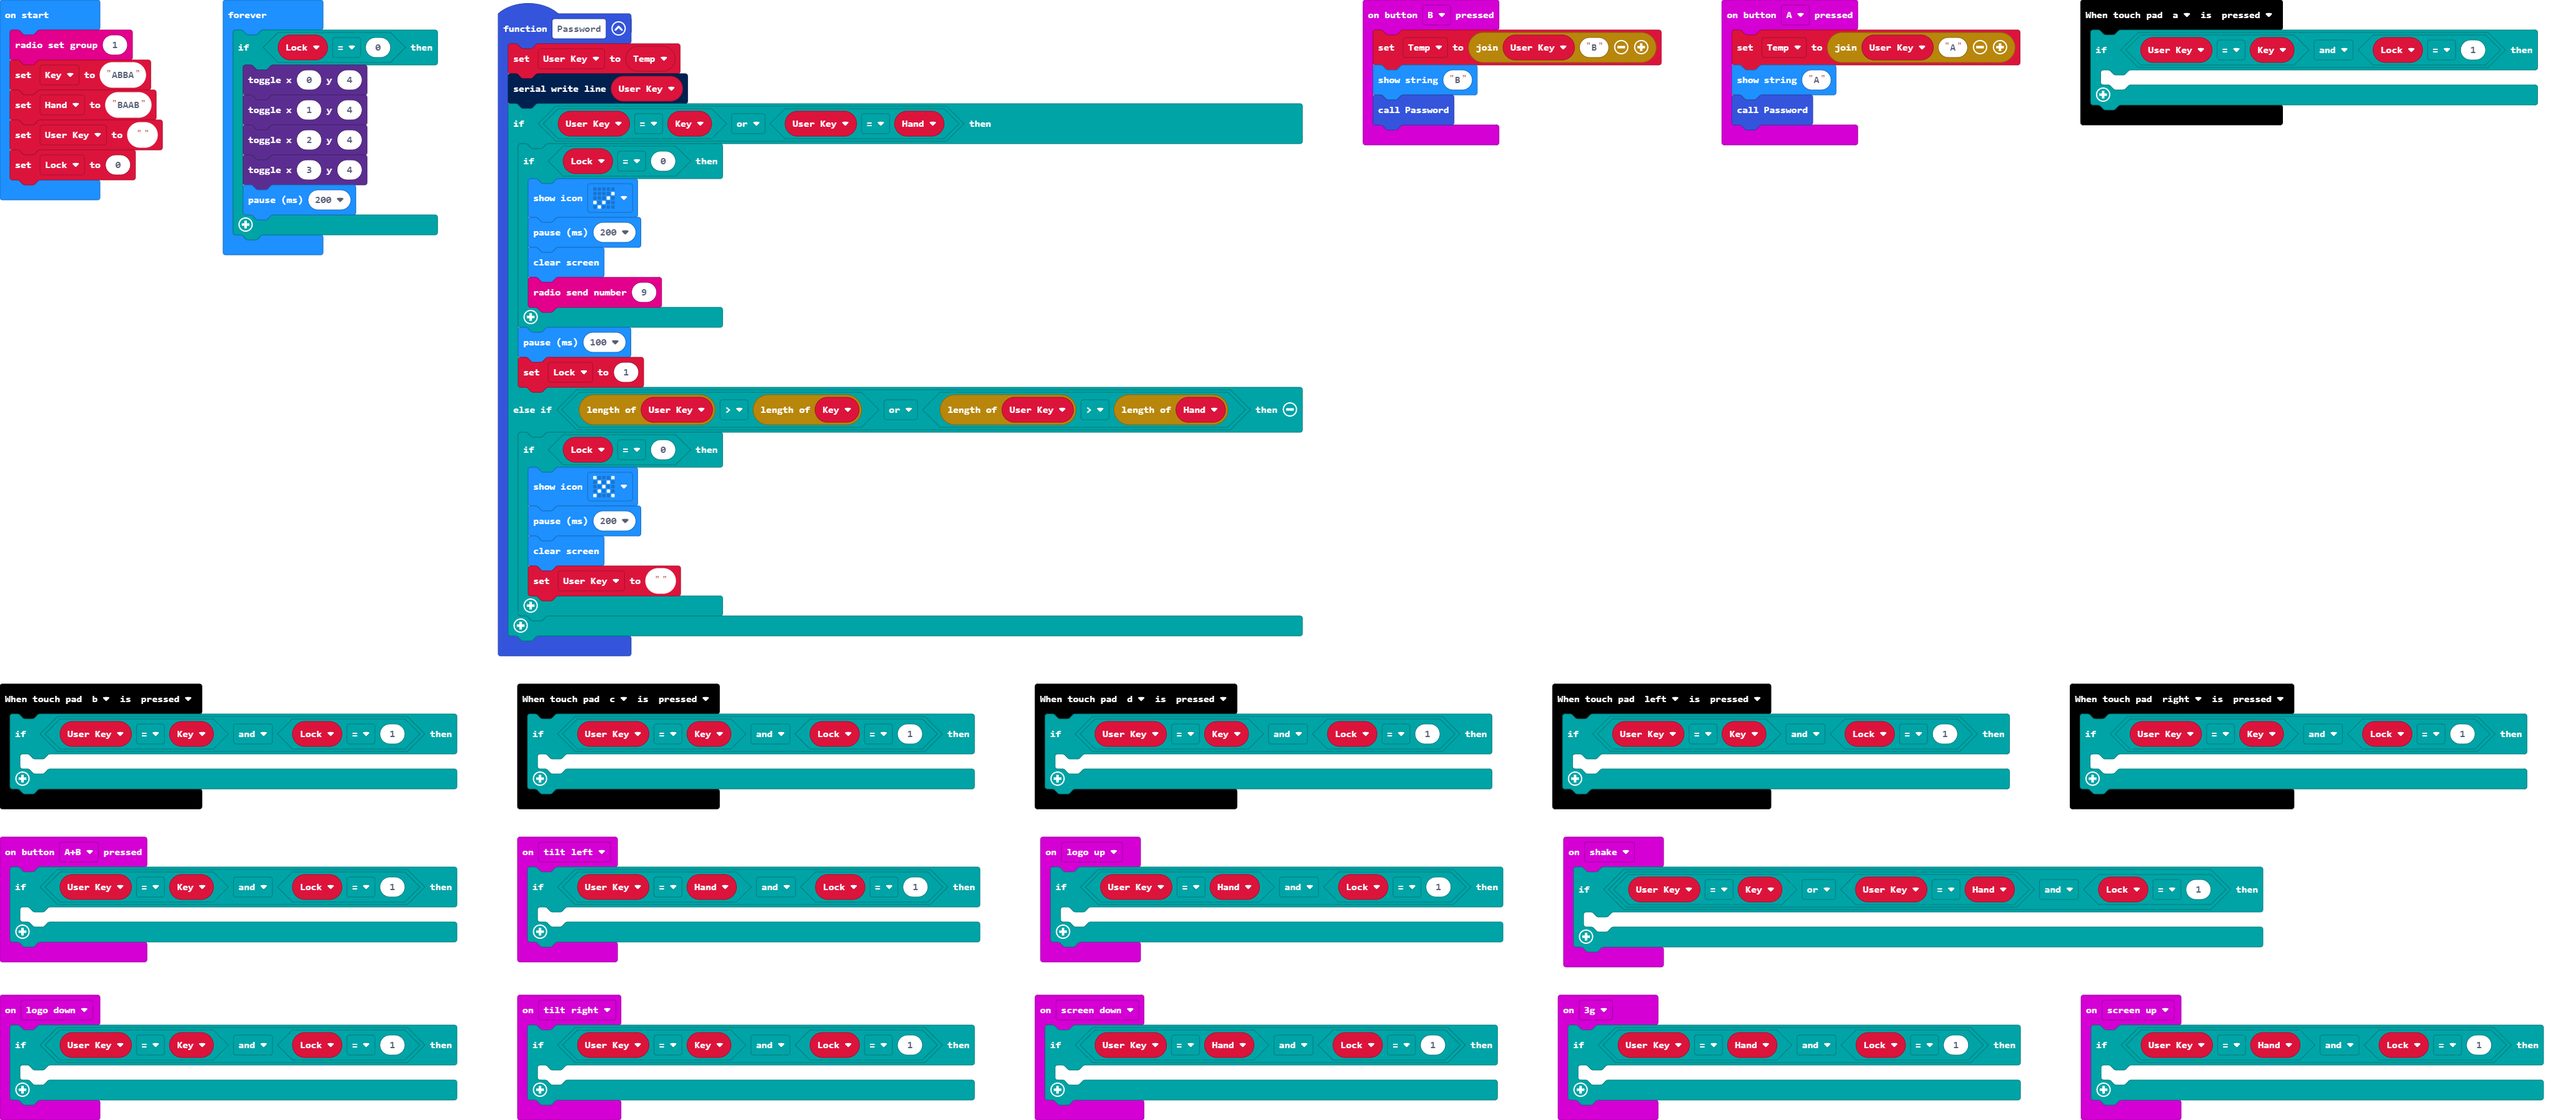
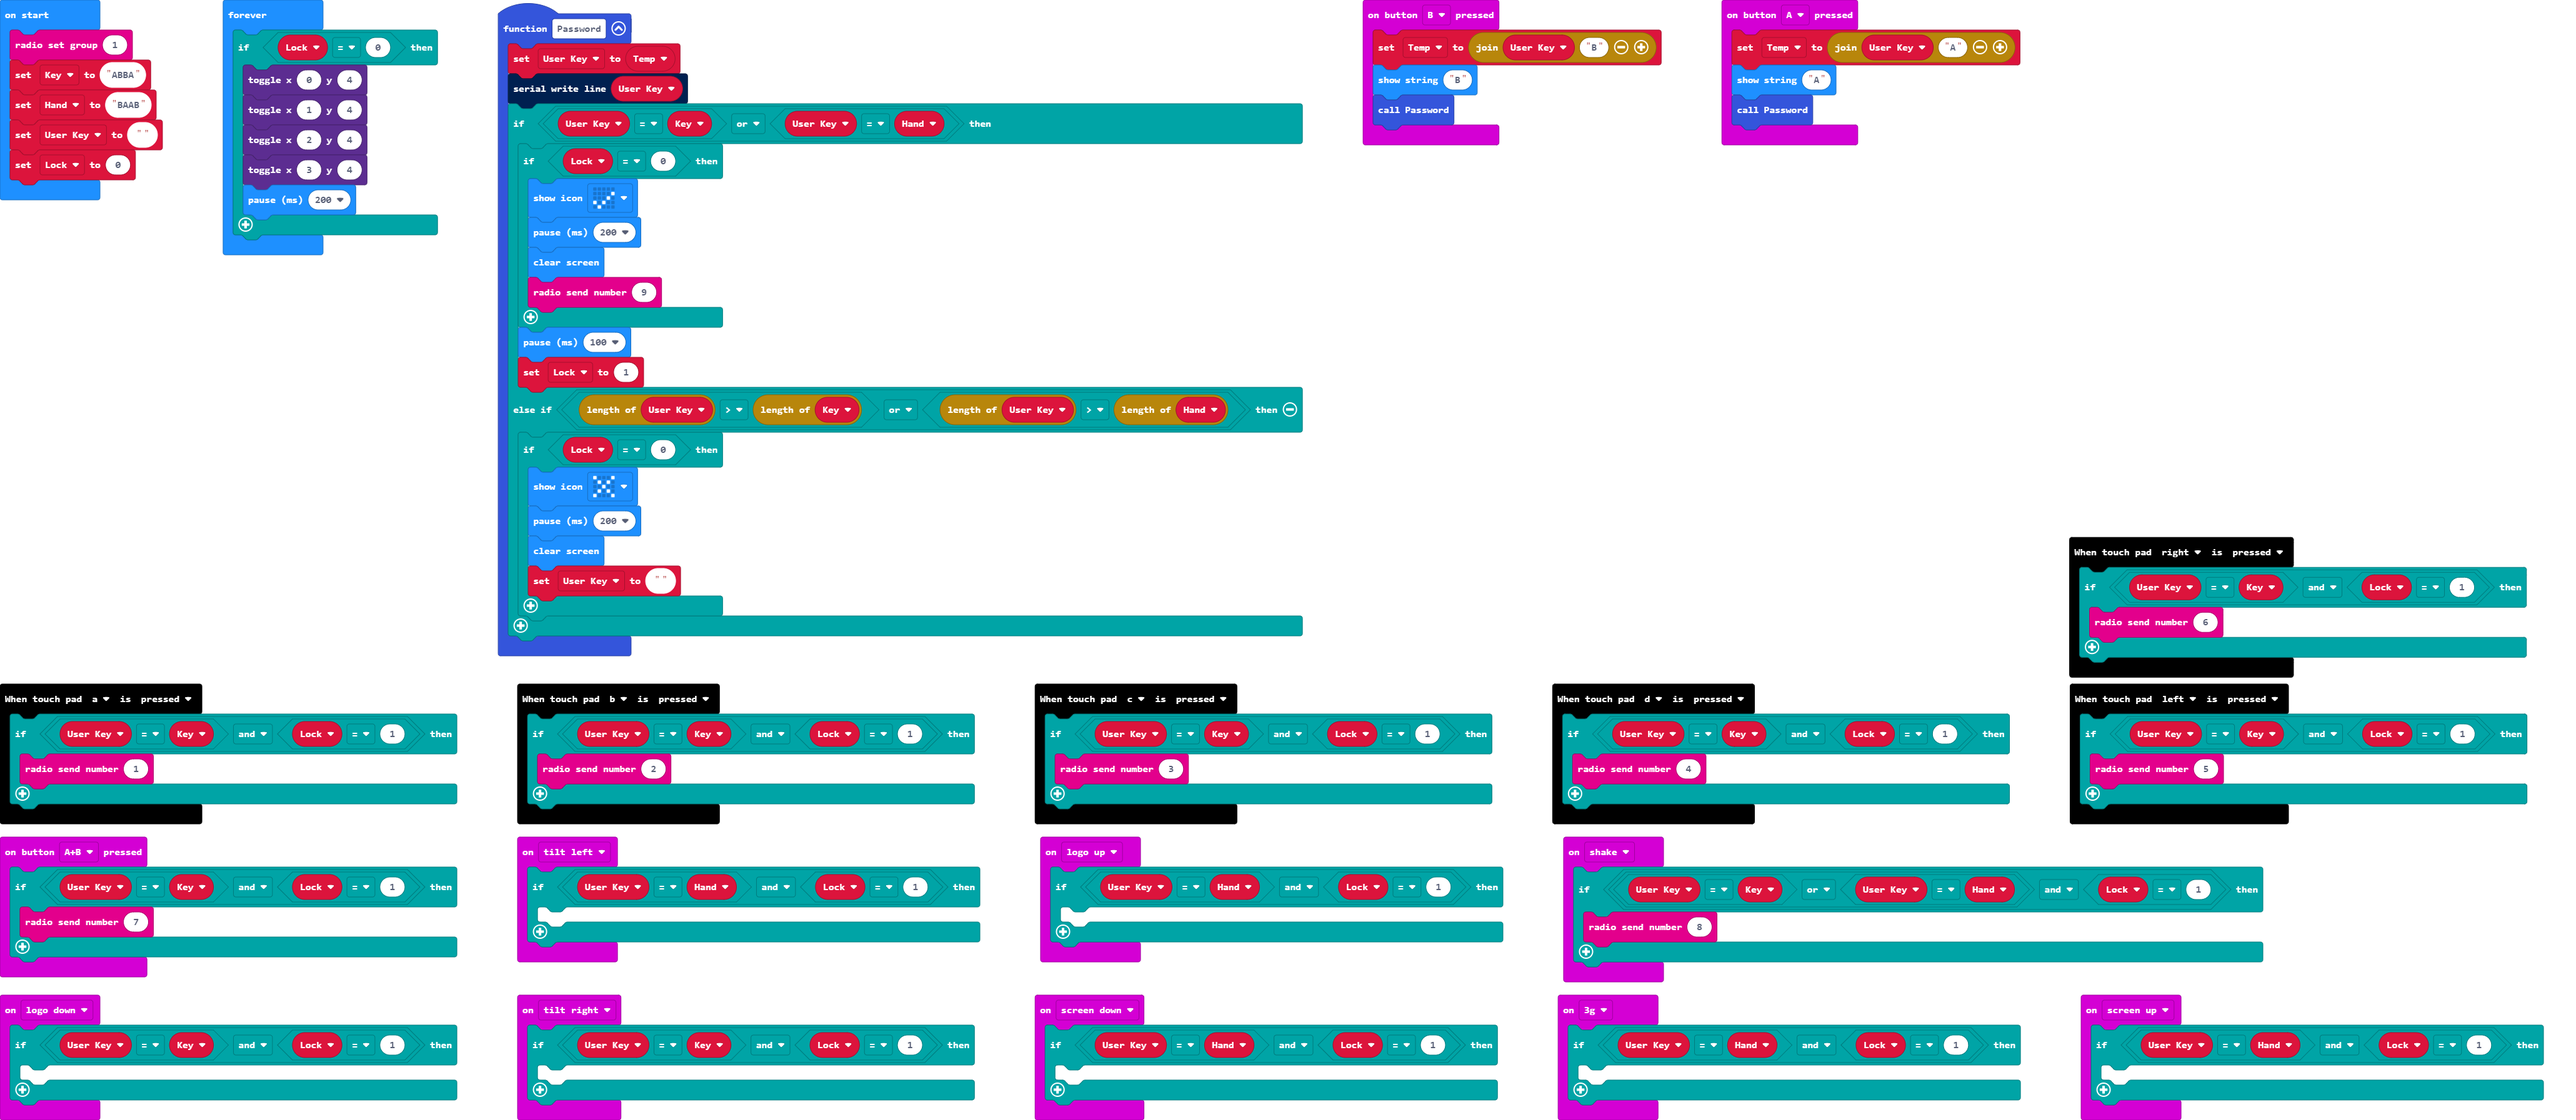
Update main.blocks, main.ts

diff --git a/main.ts b/main.ts
@@ -21,7 +21,7 @@ function Password () {
 }
 touchbit.on(touchbit.TouchPad.b, touchbit.TouchEvent.pressed, function () {
     if (User_Key == Key && Lock == 1) {
-    	
+        radio.sendNumber(2)
     }
 })
 input.onButtonPressed(Button.A, function () {
@@ -36,7 +36,7 @@ input.onGesture(Gesture.LogoUp, function () {
 })
 touchbit.on(touchbit.TouchPad.d, touchbit.TouchEvent.pressed, function () {
     if (User_Key == Key && Lock == 1) {
-    	
+        radio.sendNumber(4)
     }
 })
 input.onGesture(Gesture.TiltLeft, function () {
@@ -51,12 +51,12 @@ input.onGesture(Gesture.ScreenUp, function () {
 })
 touchbit.on(touchbit.TouchPad.right, touchbit.TouchEvent.pressed, function () {
     if (User_Key == Key && Lock == 1) {
-    	
+        radio.sendNumber(6)
     }
 })
 touchbit.on(touchbit.TouchPad.left, touchbit.TouchEvent.pressed, function () {
     if (User_Key == Key && Lock == 1) {
-    	
+        radio.sendNumber(5)
     }
 })
 input.onGesture(Gesture.ScreenDown, function () {
@@ -66,12 +66,12 @@ input.onGesture(Gesture.ScreenDown, function () {
 })
 touchbit.on(touchbit.TouchPad.c, touchbit.TouchEvent.pressed, function () {
     if (User_Key == Key && Lock == 1) {
-    	
+        radio.sendNumber(3)
     }
 })
 input.onButtonPressed(Button.AB, function () {
     if (User_Key == Key && Lock == 1) {
-    	
+        radio.sendNumber(7)
     }
 })
 input.onButtonPressed(Button.B, function () {
@@ -81,7 +81,7 @@ input.onButtonPressed(Button.B, function () {
 })
 input.onGesture(Gesture.Shake, function () {
     if ((User_Key == Key || User_Key == Hand) && Lock == 1) {
-    	
+        radio.sendNumber(8)
     }
 })
 input.onGesture(Gesture.TiltRight, function () {
@@ -96,7 +96,7 @@ input.onGesture(Gesture.LogoDown, function () {
 })
 touchbit.on(touchbit.TouchPad.a, touchbit.TouchEvent.pressed, function () {
     if (User_Key == Key && Lock == 1) {
-    	
+        radio.sendNumber(1)
     }
 })
 input.onGesture(Gesture.ThreeG, function () {
